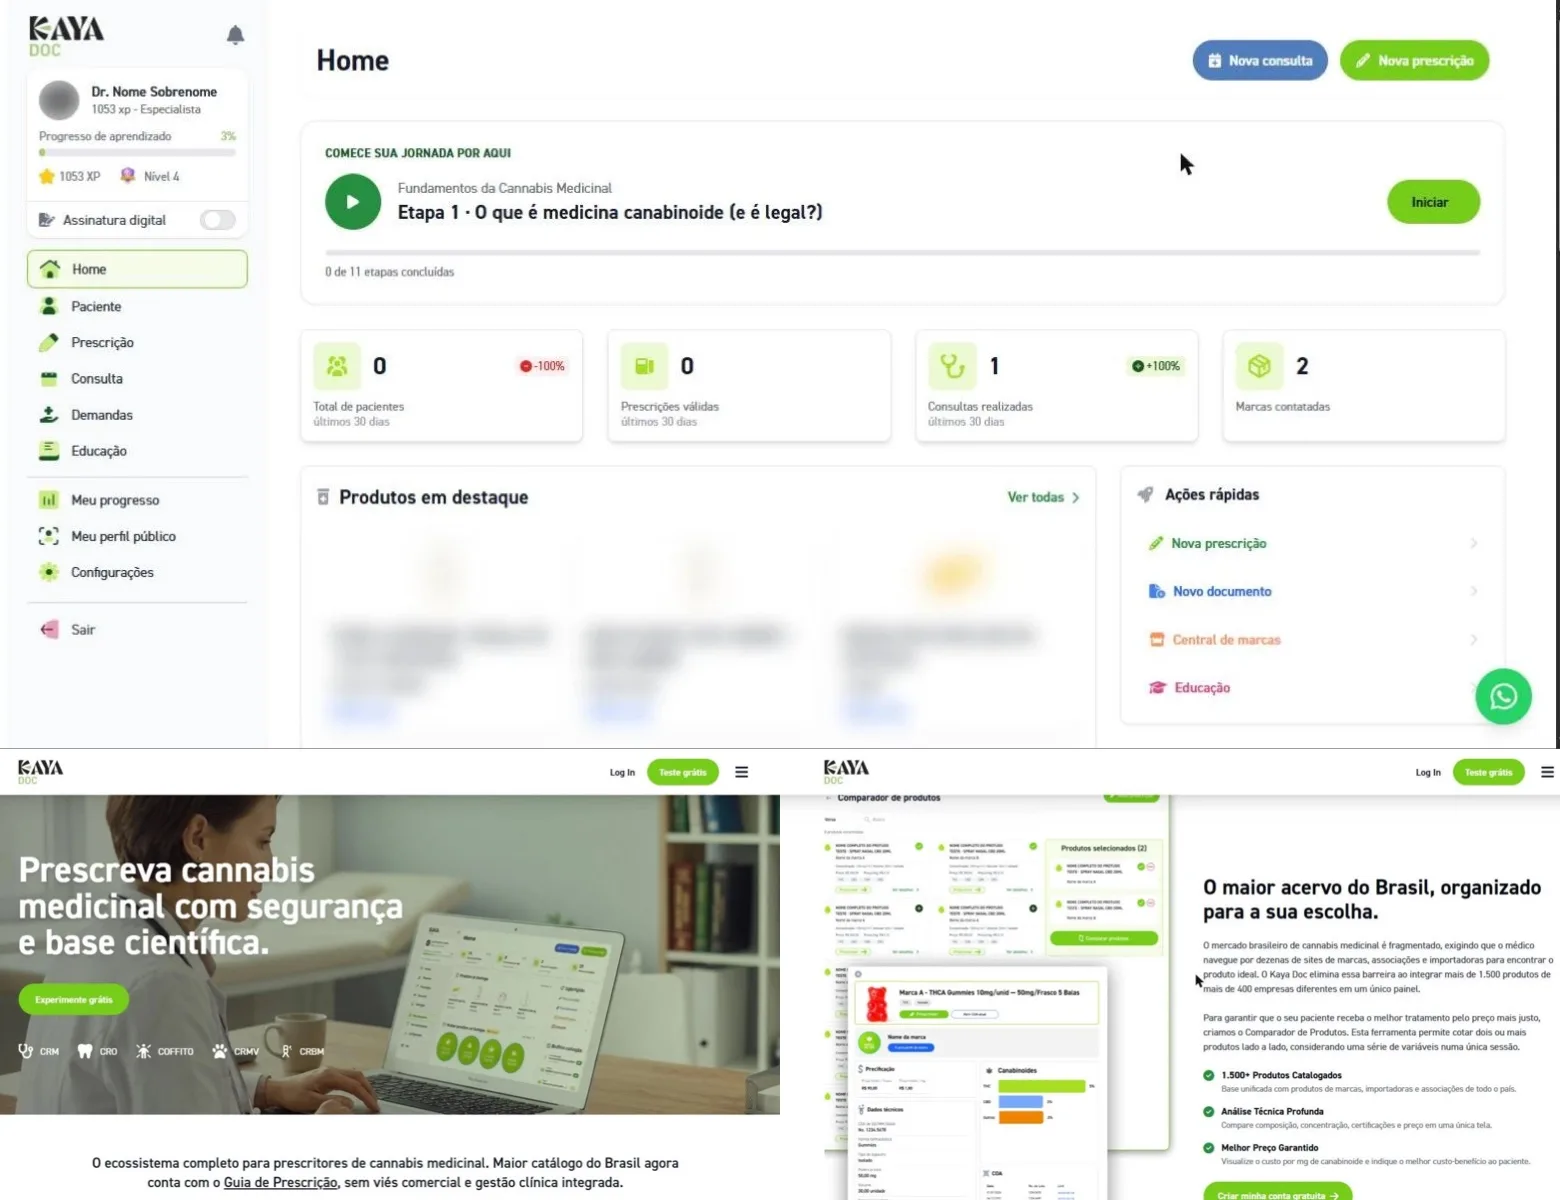
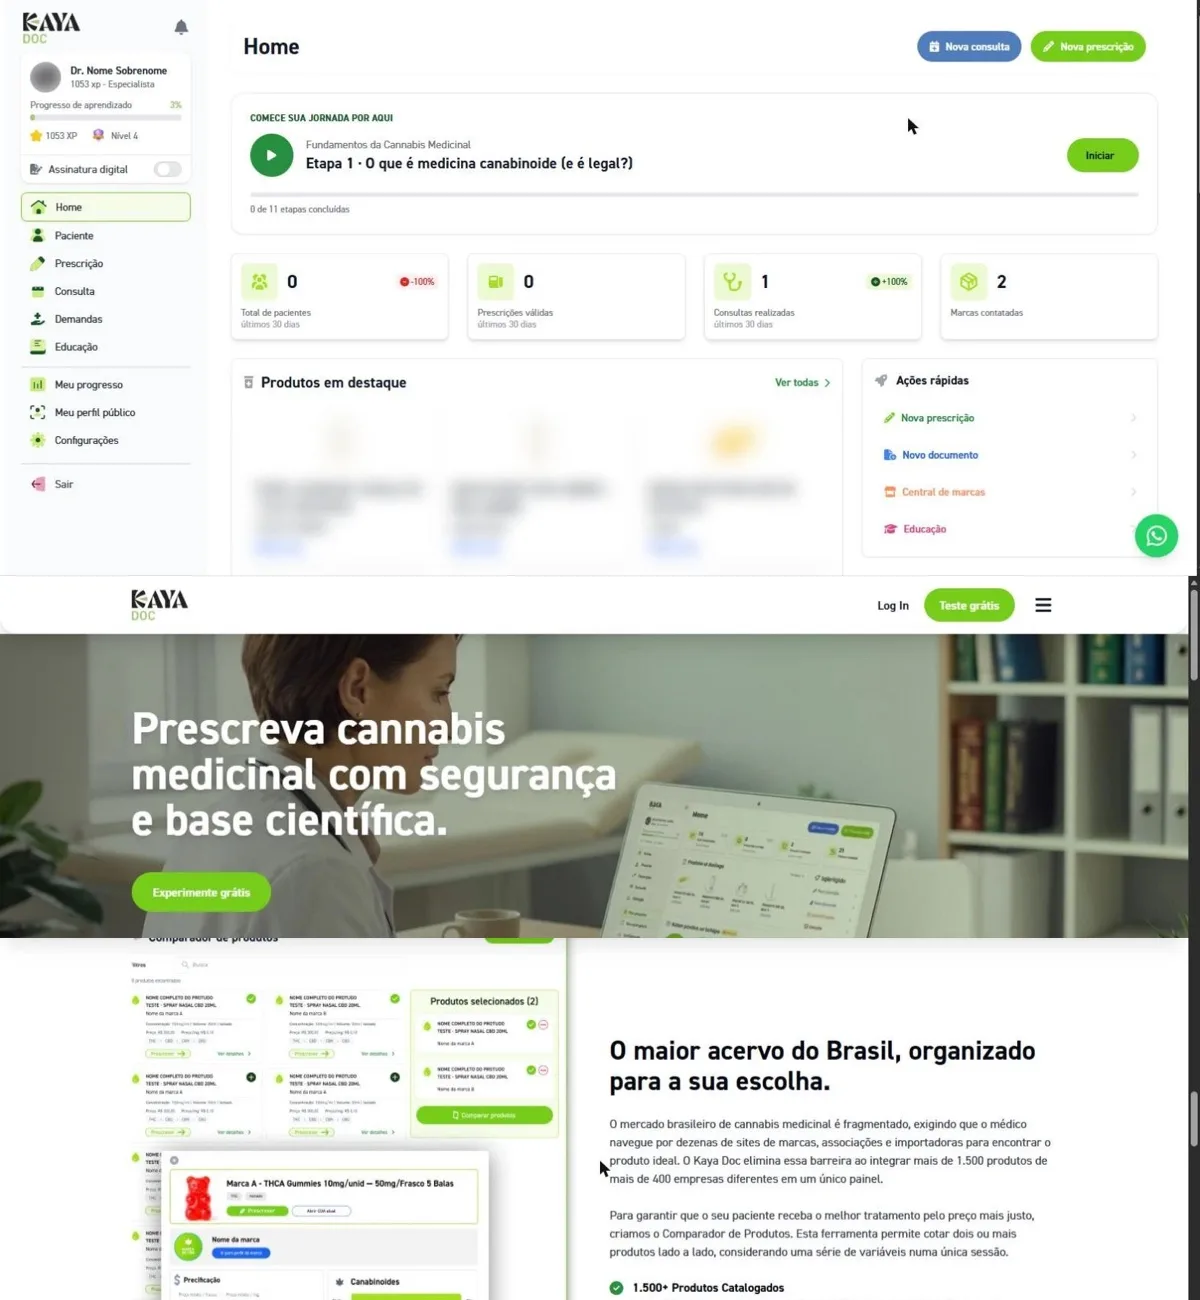
Home: cards ocupam a primeira dobra, rodapé desce para a segunda; composições de destaque em formato vertical

diff --git a/public/en.html b/public/en.html
@@ -24,9 +24,9 @@
 <link rel="stylesheet" href="/ds-v2/componentes.css">
 <style>
   /* Home: uma dobra em desktop. Destaque rotativo à esquerda, chamada e competências à direita. */
-  .stage{height:auto;padding:var(--gap);display:grid;gap:var(--gap);
+  .stage{height:auto;min-height:100svh;box-sizing:border-box;padding:var(--gap);display:grid;gap:var(--gap);
     grid-template-columns:repeat(6,minmax(0,1fr));
-    grid-template-rows:84px clamp(470px,60svh,620px);
+    grid-template-rows:84px minmax(470px,1fr);
     grid-template-areas:
       "logo nav nav nav nav nav"
       "feat feat feat hero hero hero"}

diff --git a/public/index.html b/public/index.html
@@ -24,9 +24,9 @@
 <link rel="stylesheet" href="/ds-v2/componentes.css">
 <style>
   /* Home: uma dobra em desktop. Destaque rotativo à esquerda, chamada e competências à direita. */
-  .stage{height:auto;padding:var(--gap);display:grid;gap:var(--gap);
+  .stage{height:auto;min-height:100svh;box-sizing:border-box;padding:var(--gap);display:grid;gap:var(--gap);
     grid-template-columns:repeat(6,minmax(0,1fr));
-    grid-template-rows:84px clamp(470px,60svh,620px);
+    grid-template-rows:84px minmax(470px,1fr);
     grid-template-areas:
       "logo nav nav nav nav nav"
       "feat feat feat hero hero hero"}

diff --git a/tools/modelos/home.html b/tools/modelos/home.html
@@ -8,9 +8,9 @@
 <link rel="stylesheet" href="/ds-v2/componentes.css">
 <style>
   /* Home: uma dobra em desktop. Destaque rotativo à esquerda, chamada e competências à direita. */
-  .stage{height:auto;padding:var(--gap);display:grid;gap:var(--gap);
+  .stage{height:auto;min-height:100svh;box-sizing:border-box;padding:var(--gap);display:grid;gap:var(--gap);
     grid-template-columns:repeat(6,minmax(0,1fr));
-    grid-template-rows:84px clamp(470px,60svh,620px);
+    grid-template-rows:84px minmax(470px,1fr);
     grid-template-areas:
       "logo nav nav nav nav nav"
       "feat feat feat hero hero hero"}
